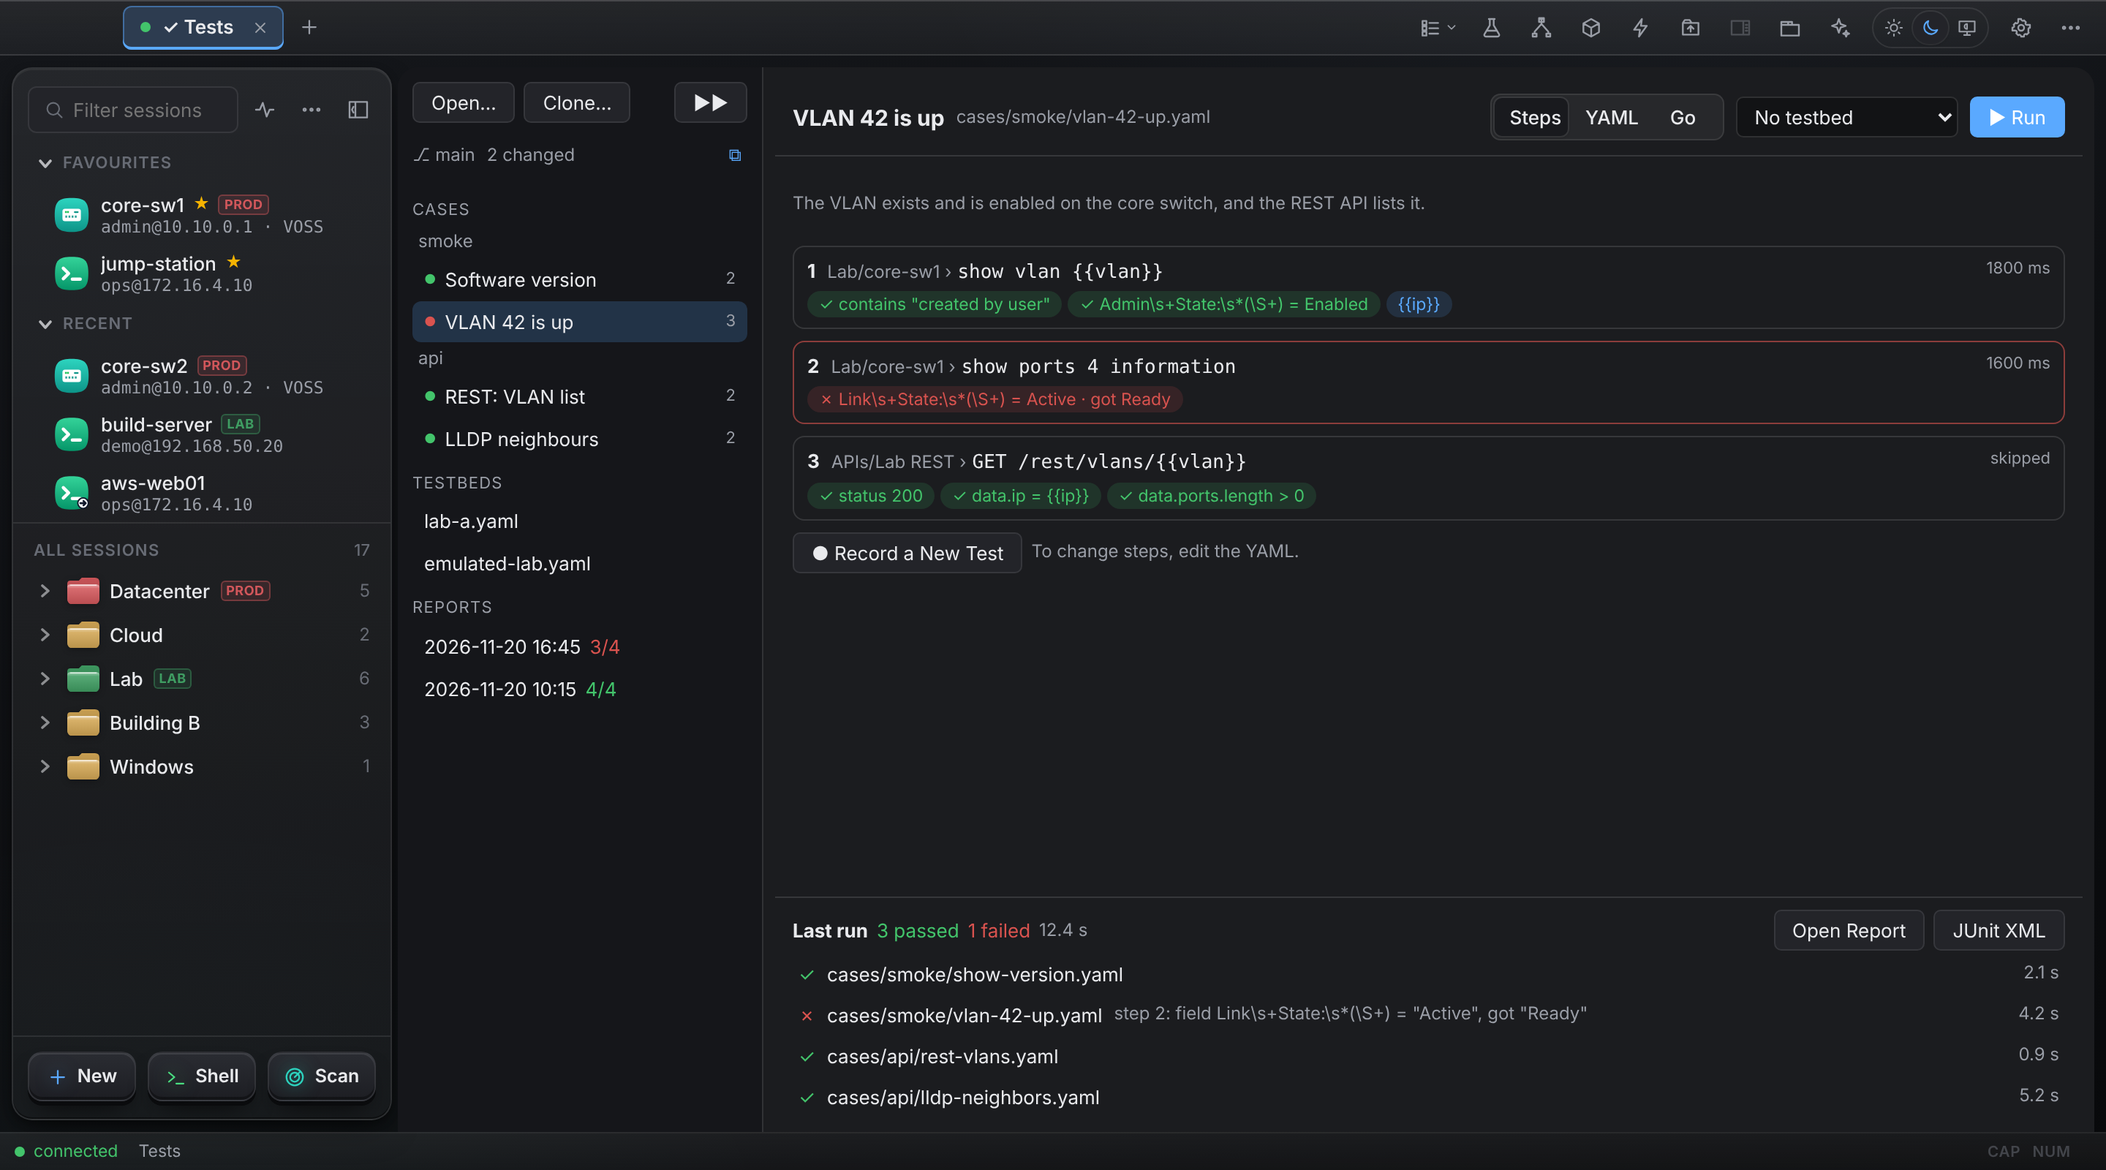
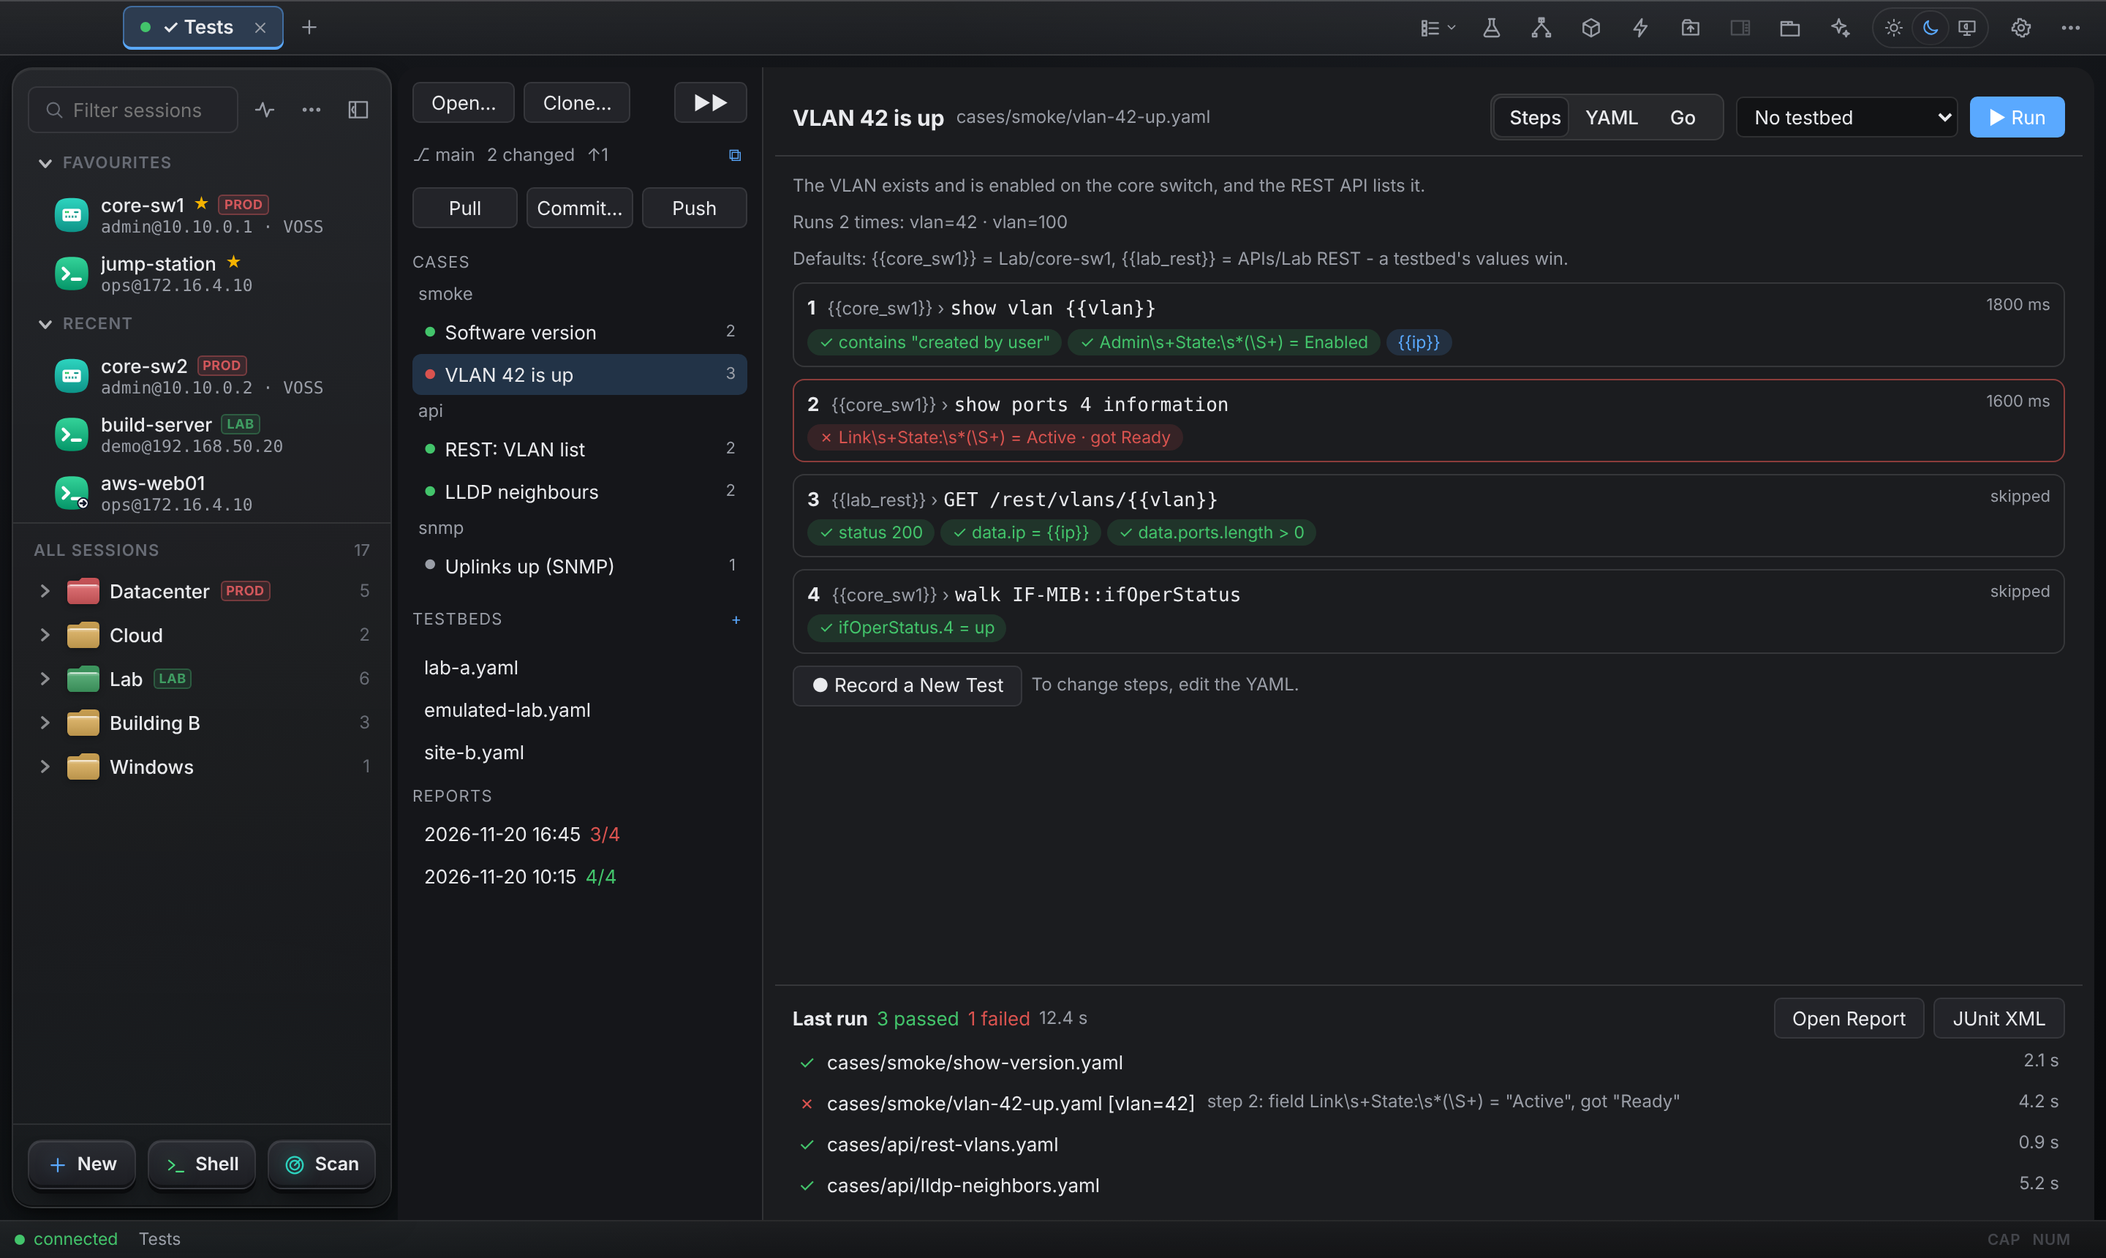
Test recorder P2.4: docs for SNMP steps, roles, testbeds, params and Git; Python new_testbed and testbed; Tests screenshot

diff --git a/frontend/src/app/components/tests-view.ts b/frontend/src/app/components/tests-view.ts
@@ -93,7 +93,7 @@ type View = 'steps' | 'yaml' | 'go';
               <button type="button" (click)="backend.testsOpen(rep.dir)">Open Report</button><button type="button" (click)="backend.testsOpen(rep.dir + '/junit.xml')">JUnit XML</button></div>
             <div class="res">
               @for (r of rep.results; track $index) {
-                <button type="button" class="rr" (click)="r.file && select(r.file)"><span [class]="r.passed ? 'ok' : 'bad'">{{ r.passed ? '✓' : '✗' }}</span>{{ r.file || r.case }}<span class="mut">{{ r.passed ? '' : failText(r) }}</span><span class="sp"></span><span class="mut">{{ (r.ms / 1000).toFixed(1) }} s</span></button>
+                <button type="button" class="rr" (click)="r.file && select(r.file)"><span [class]="r.passed ? 'ok' : 'bad'">{{ r.passed ? '✓' : '✗' }}</span>{{ r.file || r.case }}{{ paramOf(r.case) }}<span class="mut">{{ r.passed ? '' : failText(r) }}</span><span class="sp"></span><span class="mut">{{ (r.ms / 1000).toFixed(1) }} s</span></button>
               }
             </div>
           </footer>
@@ -113,7 +113,7 @@ type View = 'steps' | 'yaml' | 'go';
     header { display: flex; gap: 8px; align-items: center; padding: 10px 12px; border-bottom: 1px solid var(--border); } .ttl { font-size: 15px; } .fl { white-space: nowrap; overflow: hidden; text-overflow: ellipsis; min-width: 0; }
     header select { height: 28px; max-width: 160px; }
     .seg { display: flex; gap: 2px; background: color-mix(in srgb, var(--text) 6%, transparent); border-radius: 7px; padding: 2px; } .seg button { border: 0; background: none; padding: 3px 10px; border-radius: 5px; color: var(--text); cursor: pointer; } .seg button.on { background: color-mix(in srgb, var(--accent) 28%, transparent); }
-    .body { flex: 1; overflow: auto; padding: 12px; display: flex; flex-direction: column; gap: 8px; min-height: 0; }
+    .body p { margin: 0; } .body { flex: 1; overflow: auto; padding: 12px; display: flex; flex-direction: column; gap: 8px; min-height: 0; }
     .st { border: 1px solid var(--border); border-radius: 8px; padding: 7px 9px; } .st.f { border-color: color-mix(in srgb, var(--danger, #ef6161) 60%, transparent); } .cmd { font-family: var(--mono, monospace); margin-left: 4px; } .st > div > b { margin-right: 8px; } .ms { float: right; color: var(--muted); font-size: 11px; }
     .chip { display: inline-block; font-size: 11.5px; padding: 1px 8px; border-radius: 10px; margin: 4px 4px 0 0; background: color-mix(in srgb, var(--ok, #4ec07a) 15%, transparent); color: var(--ok, #4ec07a); }
     .chip.b { background: color-mix(in srgb, var(--danger, #ef6161) 15%, transparent); color: var(--danger, #ef6161); } .chip.v { background: color-mix(in srgb, var(--accent) 15%, transparent); color: var(--accent); }
@@ -260,6 +260,7 @@ export class TestsView implements OnInit, OnDestroy {
     try { const rel = await this.backend.testsNewTestbed(name, folder); this.ui.toast(tr('Wrote {0}', rel), 'success'); await this.load(); void this.backend.testsOpen(rel); }
     catch (e) { this.ui.toast(errText(e), 'error'); }
   }
+  paramOf(name: string) { const i = name.lastIndexOf(' ['); return i > 0 && name.endsWith(']') ? name.slice(i) : ''; }
   paramsText() { return (this.test()?.params ?? []).map(p => Object.entries(p).map(([k, v]) => `${k}=${v}`).join(', ')).join(' · '); }
   varsText() { return Object.entries(this.test()?.vars ?? {}).map(([k, v]) => `{{${k}}} = ${v}`).join(', '); }
 

diff --git a/scripts/python/termwright_lab.py b/scripts/python/termwright_lab.py
@@ -811,9 +811,14 @@ class Tests:
         """Write a test from YAML (never with passwords: name saved sessions)."""
         return self._run(action="save", file=file, yaml=yaml_text)
 
-    def run(self, *files: str, vars: Optional[dict] = None, timeout: float = 1800) -> str:
-        """Run tests (none: all). Returns pass/fail per step and the report's path (JUnit XML and HTML in reports/)."""
-        return self._run(timeout=timeout, action="run", files=list(files) or None, vars=vars)
+    def run(self, *files: str, vars: Optional[dict] = None, testbed: Optional[str] = None, timeout: float = 1800) -> str:
+        """Run tests (none: all), optionally on a testbed (a file in testbeds/). Returns pass/fail per step
+        and the report's path (JUnit XML and HTML in reports/)."""
+        return self._run(timeout=timeout, action="run", files=list(files) or None, vars=vars, testbed=testbed)
+
+    def new_testbed(self, name: str, folder: str) -> str:
+        """Write testbeds/<name>.yaml with a role for each saved session of a session folder (core-sw1 -> {{core_sw1}})."""
+        return self._run(action="new_testbed", name=name, folder=folder)
 
     def generate(self, *files: str) -> str:
         """Write the Go tests again (none: all); run them with go test ./cases/... in the tests folder."""

diff --git a/scripts/python/test_termwright_lab.py b/scripts/python/test_termwright_lab.py
@@ -292,6 +292,11 @@ class ClientTest(unittest.TestCase):
         self.assertTrue(self.lab.tests.run("cases/smoke.yaml", vars={"vlan": "42"}).startswith("1 passed"))
         calls = {p: b for _, p, b in Fake.state["calls"]}
         self.assertEqual(calls["/api/v1/tools/tests"], {"action": "run", "files": ["cases/smoke.yaml"], "vars": {"vlan": "42"}})
+        self.lab.tests.run(testbed="lab-a.yaml")
+        self.lab.tests.new_testbed("lab-a", "Lab")
+        bodies = [b for _, p, b in Fake.state["calls"] if p == "/api/v1/tools/tests"]
+        self.assertEqual(bodies[-2], {"action": "run", "testbed": "lab-a.yaml"})
+        self.assertEqual(bodies[-1], {"action": "new_testbed", "name": "lab-a", "folder": "Lab"})
 
     def test_syslog(self):
         self.assertEqual(self.lab.syslog.messages("link down", severity="err")[0]["id"], 7)

diff --git a/docs/USER_GUIDE.md b/docs/USER_GUIDE.md
@@ -1480,6 +1480,8 @@ Termwright can turn manual testing into repeatable tests, the way record-and-rep
   - *matches a pattern* - the text with its numbers turned into `\d+`;
   - *does not contain*;
   - **Save as Test Variable…** keeps the value for later steps as `{{name}}`.
+- Every get, walk or set you run in the **SNMP Browser** (on one device) becomes an `snmp` step; a get's values are added as checks (`ifOperStatus.5` = `up`).
+- **Sessions as roles** (on by default) saves each session as a role - `Lab/core-sw1` becomes `{{core_sw1}}` with `Lab/core-sw1` as the test's default - so a testbed can point the same test at other devices.
 - **+ Check** on a step adds status, JSON path (`data.items[0].name`, `[-1]`, `length`), *takes at most (ms)*, contains, matches or field checks by hand.
 - ↑ and ✕ reorder or remove steps; ⏸ pauses recording. **Save Test…** writes the test into the tests folder (`cases/…yaml`).
 
@@ -1493,7 +1495,7 @@ A step without checks passes when it runs without an error. Each recorded termin
 - The selected test as **Steps** (the last run's checks marked ✓ or ✗ with what came back), as **YAML** (edit and **Save** - the file is checked first) or as its generated **Go** test (read-only; *Open in VS Code*).
 - **▶ Run** runs the test, **▶▶** runs all of them; the testbed menu fills the `{{variables}}` from a file in `testbeds/`. A run that uses production sessions is asked first.
 - The last run lists each test with its first failure; **Open Report** opens the HTML report and **JUnit XML** the file CI systems read.
-- **Open…** makes another folder the tests folder; **Clone…** clones a Git repository of tests with this computer's `git` and its saved login (an address with a password in it is refused). When the folder is a Git repository its branch and number of changed files are shown. Files changed outside Termwright (an editor, `git pull`) show up within a few seconds.
+- **Open…** makes another folder the tests folder; **Clone…** clones a Git repository of tests with this computer's `git` and its saved login (an address with a password in it is refused). When the folder is a Git repository its branch, number of changed files and ↑ / ↓ (commits not pushed / not pulled) are shown, with **Pull** (fast-forward only - it never merges), **Commit…** (the tests, testbeds and library, with your own git name and e-mail; `reports/` stays out through the folder's `.gitignore`) and **Push** (the first push sets the branch's upstream on `origin`; never forced). **Make it a Git repository** starts one. Git uses this computer's saved login and never asks in a terminal. Files changed outside Termwright (an editor, `git pull`) show up within a few seconds.
 
 ### The tests folder
 
@@ -1533,9 +1535,11 @@ steps:
     continueOnFail: true
 ```
 
-- A step has `run` (`session`, `command`, optional `prompt` regular expression) or `http` (`session`, `environment`, `collection`, `method`, `url` - a path after the session's base URL or a full URL - `headers`, `body`).
-- `expect` checks: `contains`, `notContains`, `matches`, `status`, `maxMs`, and `field` (a regular expression whose first group is the value) or `json` (a path) with `equals`, `notEquals`, `greater`, `less` or `exists`.
-- `save` keeps a `field` or `json` value as a variable for later steps. `{{name}}` works in every text.
+- A step has `run` (`session`, `command`, optional `prompt` regular expression), `http` (`session`, `environment`, `collection`, `method`, `url` - a path after the session's base URL or a full URL - `headers`, `body`) or `snmp` (`session` - its SNMP settings and saved community or v3 passwords are used - `op`: `get`, `getnext`, `bulk`, `walk` or `set`, `oids`, or `values` for a set).
+- `expect` checks: `contains`, `notContains`, `matches`, `status`, `maxMs`, and `field` (a regular expression whose first group is the value), `json` (a path) or `oid` (an SNMP value) with `equals`, `notEquals`, `greater`, `less` or `exists`.
+- `oid` finds a value by name (`ifOperStatus.5`, `IF-MIB::ifOperStatus.5`, `ifOperStatus` for the first one a walk got) or numeric OID; `equals` matches its readable value (`up`) or its raw value (`1`); `greater` and `less` use the raw number. An SNMP step's output is one `name = value` line per value, so `contains` and `field` work on it too.
+- `save` keeps a `field`, `json` or `oid` value as a variable for later steps. `{{name}}` works in every text. To check that a value **changed**, save it in one step and use `notEquals: "{{name}}"` in a later one.
+- `params: [{vlan: "42"}, {vlan: "7"}]` runs the test once per entry, named *test [vlan=42]* in the results; the entry's values fill the variables (a testbed's and a run's own values still win).
 - After a failed step the rest are skipped, unless the step has `continueOnFail: true`. `timeout` is in seconds (default 60).
 - Put JSON paths with `[ ]` in quotes inside `{ … }`, as above.
 
@@ -1550,6 +1554,8 @@ site:
   api: APIs/Lab REST     # used as {{site.api}}
 ```
 
+**+** next to **Testbeds** in the Tests tab writes one for you: give a session folder (for example the emulated lab's folder, or a site) and a name, and it gets a role for each saved session in it (`core-sw1` → `core_sw1: Lab/core-sw1`). A test recorded with *Sessions as roles* then runs on those devices when you pick the testbed. An existing testbed is never replaced.
+
 ### Go tests
 
 Saving a test also writes it as a Go test next to it (`cases/vlan/vlan-42_test.go`): one subtest per step, checks as plain calls, for example ``a.Field(`Admin\s+State:\s*(\S+)`).Equals("Enabled")``. Termwright also writes `go.mod` (module `termwright-tests`) and `lib/twtest`, a small helper that uses only Go's standard library. Edit the YAML, not the Go file - it is written again on every save; files you add to `lib/` yourself are never replaced.
@@ -1563,11 +1569,13 @@ go test ./cases/... -args -tw.testbed=testbeds/lab.yaml -tw.var=vlan=7
 go test -json ./cases/... | go run ./lib/junit > junit.xml # JUnit XML for CI
 ```
 
+A test with `params` becomes one subtest per entry. `-tw.testbed` reads nested testbeds like Termwright (`{{site.api}}`) and finds a relative file from the tests folder.
+
 `TERMWRIGHT_API` and `TERMWRIGHT_KEY` point the tests at Termwright on another computer (otherwise they read `mcp.json` in the data folder).
 
 ### From the AI assistant, the API and Python
 
-The `tests` tool (AI assistant, Claude connector, `POST /api/v1/tools/tests`) lists, shows, saves, runs and generates tests - *"write a test that checks VLAN 42 is up on core-sw1 and run it"*. In Python: `lab.tests.run("cases/vlan/vlan42.yaml")` (see PYTHON.md).
+The `tests` tool (AI assistant, Claude connector, `POST /api/v1/tools/tests`) lists, shows, saves, runs (with a `testbed`) and generates tests and writes testbeds from a session folder (*new_testbed*); Git stays in your hands (the Tests tab) - *"write a test that checks VLAN 42 is up on core-sw1 and run it"*. In Python: `lab.tests.run("cases/vlan/vlan42.yaml")` (see PYTHON.md).
 
 ## 10. Automation: logon actions, triggers, scripts
 

diff --git a/docs/FEATURES.md b/docs/FEATURES.md
@@ -89,7 +89,10 @@ Without a team Termwright works on its own and sends nothing anywhere.
 
 - **Test recorder**: Tests → Record a Test; commands typed in terminal tabs and requests sent in the API Client become steps; right-click selected output → *Expect this* (contains, field = value with the regular expression made from its label, matches, does not contain) or *Save as Test Variable*; **+ Check** for status, JSON path, time.
 - **Tests tab**: tests by folder with their last result, testbeds, reports; a test as steps, YAML (edit and save) or generated Go; run one or all with a testbed; results with the first failure; HTML report and JUnit XML per run.
-- **Test format**: YAML - `run` (session, command) and `http` (session, method, url, headers, body) steps; checks `contains`, `notContains`, `matches`, `status`, `maxMs`, `field` / `json` with `equals`, `notEquals`, `greater`, `less`, `exists`; `save` for `{{variables}}`; `continueOnFail`, `timeout`.
+- **Test format**: YAML - `run` (session, command), `http` (session, method, url, headers, body) and `snmp` (session, get / walk / set) steps; checks `contains`, `notContains`, `matches`, `status`, `maxMs`, `field` / `json` / `oid` with `equals`, `notEquals`, `greater`, `less`, `exists`; `save` for `{{variables}}` (a value that changed: save, then `notEquals`); `params` to run a test once per set of values; `continueOnFail`, `timeout`.
+- **SNMP in tests**: gets, walks and sets in the SNMP Browser are recorded; SNMP values checked by name or OID, readable (`up`) or raw (`1`).
+- **Roles and testbeds**: recorded sessions become roles (`{{core_sw1}}`); a testbed written from a session folder (the emulated lab's, a site) points the same tests at other devices.
+- **Git**: Pull (fast-forward only), Commit… and Push in the Tests tab, with ↑ / ↓ counts; reports stay out of Git.
 - **Go tests**: each test is also written as a Go test with a small standard-library helper; `go test ./cases/...` runs them through Termwright (saved logins, no passwords in code); `go run ./lib/junit` makes JUnit XML for CI.
 - **Tests folder**: any folder, a Git repository too (Clone…; branch and changes shown); testbeds fill the variables; production sessions are asked first; tests with passwords are refused.
 - **Tests for AI and automation**: the `tests` tool for the AI assistant and MCP apps, `POST /api/v1/tools/tests`, and `lab.tests` in Python.

diff --git a/docs/API.md b/docs/API.md
@@ -82,7 +82,7 @@ Settings, and turning one on does not turn on the other.
 | `GET /ai/skills` | The AI skills (SKILL.md procedures the AI assistant follows); `POST` adds or replaces one from its text | 200 |
 | `GET /ai/skills/{skill}` | One skill with its whole SKILL.md | 200 |
 | `GET /tools` | The network tools (`device`, `snmp`, `http`, `syslog`, `tests`) with their arguments (JSON Schema), the same as the MCP connector's | 200 `Tool[]` |
-| `POST /tools/{tool}` | Runs a network tool; the body holds its arguments (`device`: a saved session's facts and device type - facts, refresh_facts, identify, set_type, types; `tests`: Termwright tests - list, show, save (`file`, `yaml`), run (`files`, `testbed`, `vars`; pass/fail per step and the report's path), generate (the Go tests), step (one step without its checks, as JSON - used by the generated Go tests), results) | 200 `{"result": text}` |
+| `POST /tools/{tool}` | Runs a network tool; the body holds its arguments (`device`: a saved session's facts and device type - facts, refresh_facts, identify, set_type, types; `tests`: Termwright tests - list, show, save (`file`, `yaml`), run (`files`, `testbed`, `vars`; pass/fail per step and the report's path), generate (the Go tests), step (one `run`, `http` or `snmp` step without its checks, as JSON - used by the generated Go tests), new_testbed (`name`, `folder`: a role per saved session of a session folder), results) | 200 `{"result": text}` |
 
 `{port}` and `{stream}` take a name (`Test port 1`, `voice`) or an id. In a
 stream, `from` and `to` take names too. The OpenAPI document has every field,

diff --git a/README.md b/README.md
@@ -115,7 +115,8 @@ And much more - see the [feature list](docs/FEATURES.md).
 
 - **Record a test** while you work: commands in terminal tabs and REST requests become steps; right-click output → *Expect this* to add a check
 - **Tests tab**: run one or all tests on a testbed, see which check failed and what came back, open the HTML report or JUnit XML
-- **Plain files**: tests are YAML in a folder that can be a Git repository, and each is also written as a **Go test** (`go test ./cases/...`) - no passwords in either, Termwright logs in with the saved logins
+- **SNMP, CLI and REST** steps in one test; **roles and testbeds** run the same test on other devices, **params** run it once per set of values
+- **Plain files**: tests are YAML in a folder that can be a Git repository (Pull, Commit, Push in the Tests tab), and each is also written as a **Go test** (`go test ./cases/...`) - no passwords in either, Termwright logs in with the saved logins
 - Usable from the AI assistant, MCP apps, the local REST API and Python
 
 ![Tests tab](docs/screenshots/tests.png)

diff --git a/docs/PYTHON.md b/docs/PYTHON.md
@@ -106,6 +106,8 @@ steps:
 """)
 print(lab.tests.run("cases/smoke/version.yaml", vars={"vlan": "42"}))  # pass/fail per step, report path
 print(lab.tests.run())          # all tests
+print(lab.tests.run(testbed="lab-a.yaml"))   # the same tests on other devices
+lab.tests.new_testbed("lab-a", "Lab")        # a role per saved session of the Lab folder
 print(lab.tests.results())      # the last run
 lab.tests.generate()            # write the Go tests again
 ```
